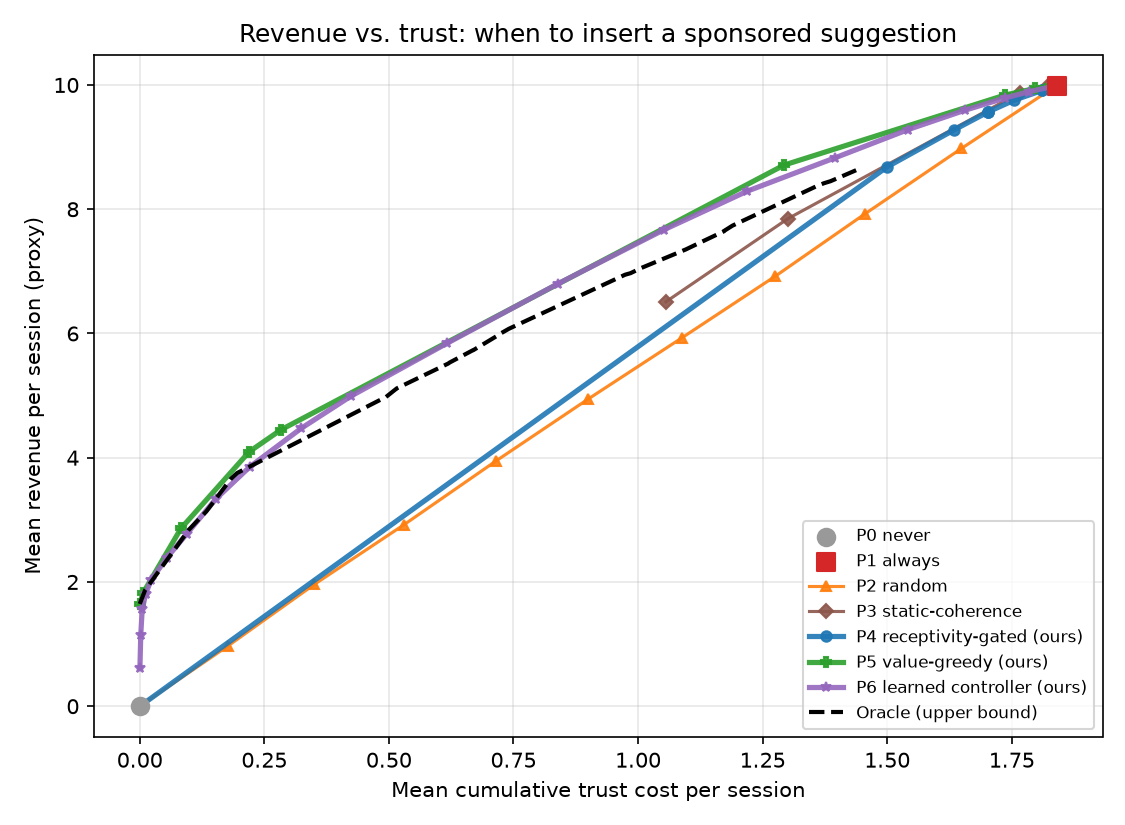
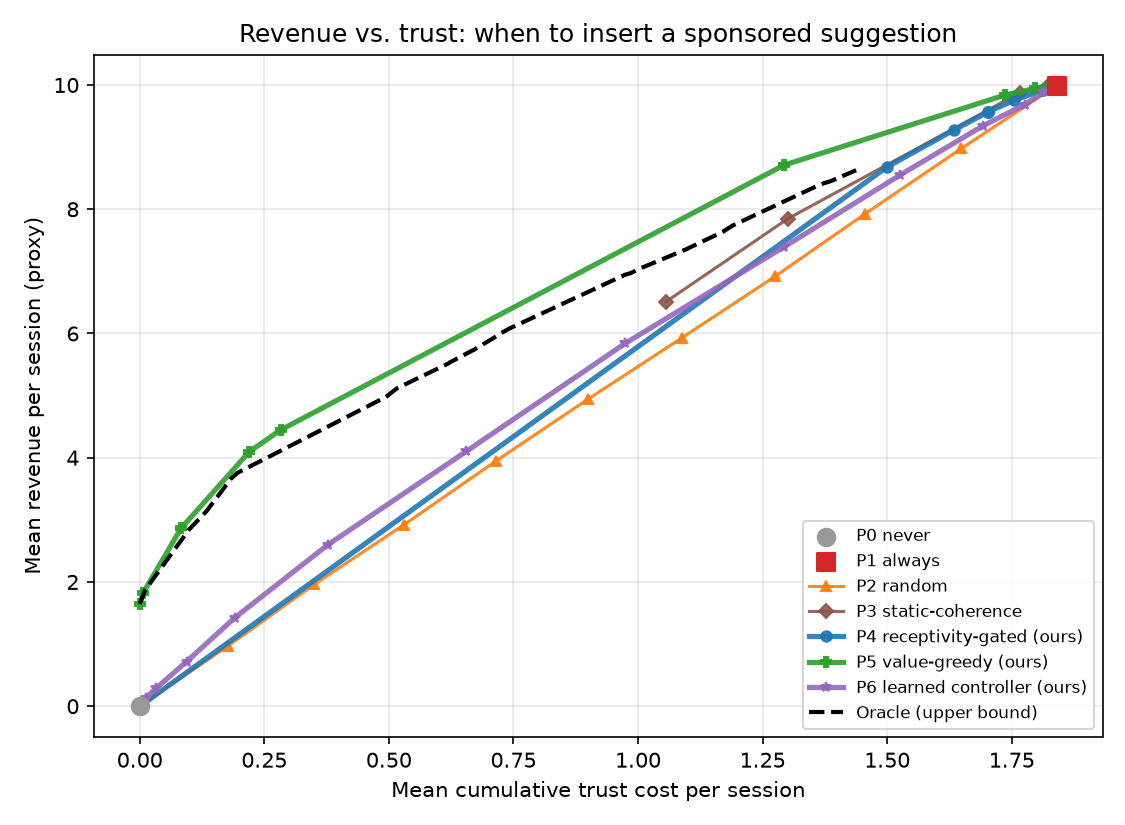
emb noly run

diff --git a/derisk/results/go_no_go.md b/derisk/results/go_no_go.md
@@ -1,33 +1,33 @@
 # De-risk go/no-go verdict (auto-generated)
 
-**Overall: ✅ GO**
+**Overall: ⚠ NO-GO / investigate**
 
 ## Pre-registered criteria
-- **C1 Pareto dominance** (ours beats baselines by ≥15% across ≥60% of range): **PASS** — median gain +38.5%, won at 74% of trust levels.
-- **C2 Oracle gap** (ours reaches ≥70% of oracle): **PASS** — median 106% of oracle.
+- **C1 Pareto dominance** (ours beats baselines by ≥15% across ≥60% of range): **FAIL** — median gain +10.5%, won at 42% of trust levels.
+- **C2 Oracle gap** (ours reaches ≥70% of oracle): **PASS** — median 88% of oracle.
 - **C3 Robustness across judges**: run the calibration subset (`label.py` against a hosted model) and re-run this script; compare verdicts.
 
 ## Revenue at matched trust (ours = best of P4/P5, baseline = best of P2/P3)
 | trust | baseline rev | ours rev | rel. gain | % of oracle |
 |---|---|---|---|---|
 | 0.092 | 0.504 | 2.861 | +467.1% | 103% |
-| 0.184 | 1.010 | 3.691 | +265.3% | 101% |
-| 0.276 | 1.536 | 4.408 | +187.0% | 108% |
-| 0.368 | 2.055 | 4.702 | +128.8% | 105% |
-| 0.460 | 2.547 | 5.151 | +102.3% | 106% |
-| 0.552 | 3.043 | 5.557 | +82.7% | 106% |
-| 0.644 | 3.554 | 5.960 | +67.7% | 106% |
-| 0.736 | 4.062 | 6.356 | +56.5% | 105% |
-| 0.828 | 4.557 | 6.753 | +48.2% | 105% |
-| 0.920 | 5.150 | 7.131 | +38.5% | 106% |
-| 1.012 | 6.071 | 7.507 | +23.6% | 106% |
-| 1.104 | 6.543 | 7.863 | +20.2% | 106% |
-| 1.196 | 6.747 | 8.205 | +21.6% | 106% |
-| 1.288 | 7.382 | 8.682 | +17.6% | 107% |
-| 1.380 | 7.886 | 8.811 | +11.7% | 104% |
-| 1.472 | 8.016 | 8.829 | +10.1% | n/a |
-| 1.564 | 8.516 | 9.283 | +9.0% | n/a |
-| 1.656 | 9.032 | 9.593 | +6.2% | n/a |
+| 0.184 | 1.010 | 2.861 | +183.1% | 78% |
+| 0.276 | 1.536 | 4.409 | +187.0% | 108% |
+| 0.368 | 2.055 | 4.449 | +116.4% | 100% |
+| 0.460 | 2.547 | 4.449 | +74.7% | 92% |
+| 0.552 | 3.043 | 4.449 | +46.2% | 85% |
+| 0.644 | 3.554 | 4.449 | +25.2% | 79% |
+| 0.736 | 4.062 | 4.802 | +18.2% | 79% |
+| 0.828 | 4.557 | 5.203 | +14.2% | 81% |
+| 0.920 | 5.150 | 5.605 | +8.8% | 83% |
+| 1.012 | 6.071 | 6.025 | -0.8% | 85% |
+| 1.104 | 6.543 | 6.473 | -1.1% | 88% |
+| 1.196 | 6.747 | 6.922 | +2.6% | 89% |
+| 1.288 | 7.382 | 7.370 | -0.2% | 91% |
+| 1.380 | 7.886 | 8.711 | +10.5% | 103% |
+| 1.472 | 8.016 | 8.711 | +8.7% | n/a |
+| 1.564 | 8.516 | 8.908 | +4.6% | n/a |
+| 1.656 | 9.032 | 9.300 | +3.0% | n/a |
 | 1.748 | 9.735 | 9.836 | +1.0% | n/a |
 
 *Note:* on synthetic data this only validates the harness. The real verdict requires `cache/features.parquet` from a labeling run on real conversations.
